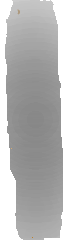
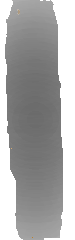
Commit 13
changed grass texture, fixed hand rendering code

tomorrow todo list:
finish hand rendering
write physics engine and start working on bags being thrown

diff --git a/Cornhole Simulator 2/Game.cs b/Cornhole Simulator 2/Game.cs
@@ -19,6 +19,8 @@ namespace Cornhole_Simulator_2
         Bitmap redBag = Cornhole_Simulator_2.Properties.Resources.redBag;
         Bitmap arm1 = Cornhole_Simulator_2.Properties.Resources.arm1;
         Bitmap arm2 = Cornhole_Simulator_2.Properties.Resources.arm2;
+        Bitmap arm1Shadow = Cornhole_Simulator_2.Properties.Resources.arm1Shadow;
+        Bitmap arm2Shadow = Cornhole_Simulator_2.Properties.Resources.arm2Shadow;
         int amountOFBagsForPlayer1 = 4;
         int amountOfBagsForPlayer2 = 4;
         int player1Score = 0;
@@ -97,18 +99,34 @@ namespace Cornhole_Simulator_2
             //draw scores
             g.DrawString(player1Score.ToString() + "-" + player2Score.ToString(), new Font(FontFamily.GenericSansSerif, 25, FontStyle.Bold), Brushes.Black, width / 2 - 30, 0);
 
-            //draw hand
-            //TODO: make hand smaller, fix angle calculation, draw bag in hand, change hand perspective in engine, resize arm based on size, draw shadow of arm\\
+            //draw shadow for hand
+            int yPositionOfArm1Shadow = height - arm1.Height + 170;
+            int xPositionOfArm1Shadow = width / 2 + 75 - 70;
+            int bottomOfArm1Shadow = height;
 
-            //good enough for now, needs redone in 3D
+            int yPositionOfArm2Shadow = height - arm1.Height + 30;
+            int xPositionOfArm2Shadow = width / 2 + 75 - 70;
+            int bottomOfArm2Shadow = yPositionOfArm1Shadow;
+
+            Point[] shadowPointsForArm1 = {
+                new Point(xPositionOfArm1Shadow - positionOfHandX, yPositionOfArm1Shadow),
+                new Point(xPositionOfArm1Shadow + arm1.Width - positionOfHandX - 30, yPositionOfArm1Shadow),
+                new Point(xPositionOfArm1Shadow, bottomOfArm1Shadow)};
+            Point[] shadowPointsForArm2 = {
+                new Point((int)(xPositionOfArm2Shadow - (positionOfHandX * 3.25F)), yPositionOfArm2Shadow),
+                new Point((int)(xPositionOfArm2Shadow - (positionOfHandX * 3.25F)) + arm2.Width - 30, yPositionOfArm2Shadow),
+                new Point(xPositionOfArm2Shadow - positionOfHandX - 20, bottomOfArm2Shadow + 10)};
+
+            g.DrawImage(arm1Shadow, shadowPointsForArm1);
+            g.DrawImage(arm2Shadow, shadowPointsForArm2);
+
+            //draw hand
             int yPositionOfArm1 = height - arm1.Height + 170;
             int xPositionOfArm1 = width / 2 + 75;
-            int rotationOfArm1 = 0;
             int bottomOfArm1 = height;
 
             int yPositionOfArm2 = height - arm1.Height + 20;
             int xPositionOfArm2 = width / 2 + 75;
-            int rotationOfArm2 = 0;
             int bottomOfArm2 = yPositionOfArm1;
 
             Point[] pointsForArm1 = {
@@ -116,13 +134,14 @@ namespace Cornhole_Simulator_2
                 new Point(xPositionOfArm1 + arm1.Width - positionOfHandX, yPositionOfArm1),
                 new Point(xPositionOfArm1, bottomOfArm1)};
             Point[] pointsForArm2 = {
-                new Point((int)(xPositionOfArm2 - (positionOfHandX * 2.85F)), yPositionOfArm2),
-                new Point((int)(xPositionOfArm2 - (positionOfHandX * 2.85F)) + arm2.Width, yPositionOfArm2),
+                new Point((int)(xPositionOfArm2 - (positionOfHandX * 3.25F)), yPositionOfArm2),
+                new Point((int)(xPositionOfArm2 - (positionOfHandX * 3.25F)) + arm2.Width, yPositionOfArm2),
                 new Point(xPositionOfArm2 - positionOfHandX - 20, bottomOfArm2 + 10)};
 
             g.DrawImage(arm1, pointsForArm1);
             g.DrawImage(arm2, pointsForArm2);
 
+            //draw bag in hand
             //Point[] pointsForBagInHand =
             //{
             //    new Point(width / 2 - arm2.Width / 2 - (int)(positionOfHandX * 2.5F), topOfArm2),

diff --git a/Cornhole Simulator 2/Properties/Resources.Designer.cs b/Cornhole Simulator 2/Properties/Resources.Designer.cs
@@ -73,9 +73,29 @@ namespace Cornhole_Simulator_2.Properties {
         /// <summary>
         ///   Looks up a localized resource of type System.Drawing.Bitmap.
         /// </summary>
+        internal static System.Drawing.Bitmap arm1Shadow {
+            get {
+                object obj = ResourceManager.GetObject("arm1Shadow", resourceCulture);
+                return ((System.Drawing.Bitmap)(obj));
+            }
+        }
+        
+        /// <summary>
+        ///   Looks up a localized resource of type System.Drawing.Bitmap.
+        /// </summary>
         internal static System.Drawing.Bitmap arm2 {
             get {
                 object obj = ResourceManager.GetObject("arm2", resourceCulture);
+                return ((System.Drawing.Bitmap)(obj));
+            }
+        }
+        
+        /// <summary>
+        ///   Looks up a localized resource of type System.Drawing.Bitmap.
+        /// </summary>
+        internal static System.Drawing.Bitmap arm2Shadow {
+            get {
+                object obj = ResourceManager.GetObject("arm2Shadow", resourceCulture);
                 return ((System.Drawing.Bitmap)(obj));
             }
         }
